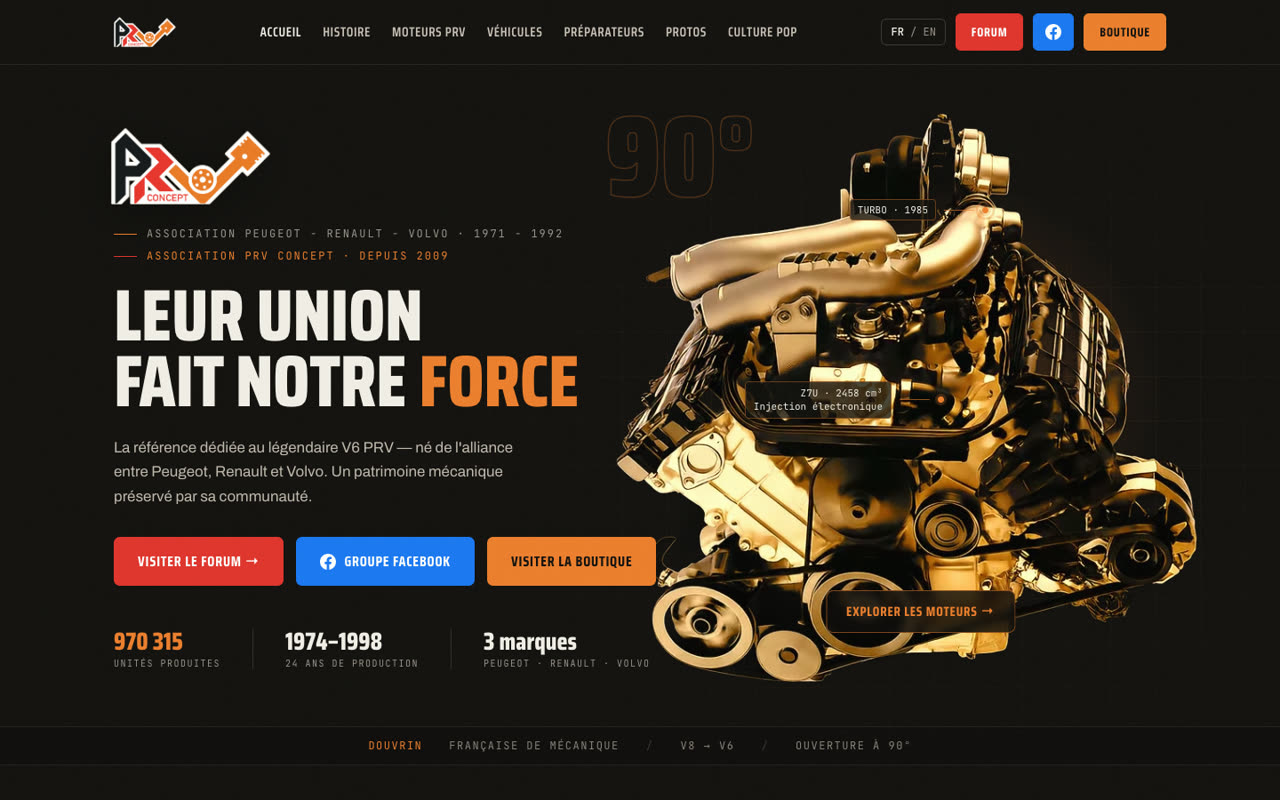
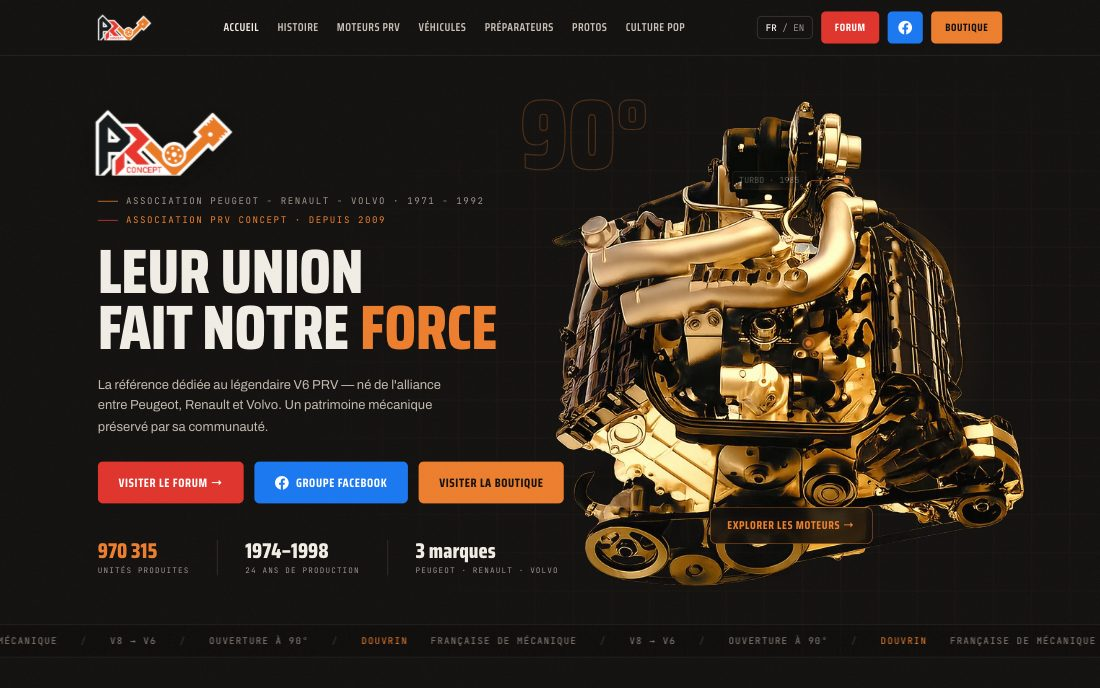
feat(realisations): capture automatisee des vignettes depuis les sites live
Nouveau script scripts/capture-realisation.mjs (npm run
capture:realisations) : rend le site client dans Chrome headless
(layout desktop 1440px), re-echantillonne via deviceScaleFactor
fractionnaire (pas de dependance sharp) et ecrit un JPEG a la taille
d'affichage des cartes (1100px, ~110 Ko).

La vignette PRV Concept est rafraichie avec l'etat actuel du site
(114 Ko vs 162 Ko). L'iframe live a ete ecartee : X-Frame-Options DENY
cote PRV, et charger un site entier dans la carte contredirait la
philosophie perf — les visiteurs ne recoivent qu'une image statique.

diff --git a/README.md b/README.md
@@ -43,7 +43,7 @@ Page unique (FR `index.html` / EN `index-en.html`) avec ancres :
 | CTA banner | — | Bandeau « Disponible maintenant » avec spotlight souris suivant |
 | Footer | — | Navigation + expertise + contact + réseaux sociaux |
 
-Pages annexes : `mentions-legales.html` / `legal-notice.html` (EN), `confidentialite.html` / `privacy.html` (EN), le **questionnaire de faisabilité** `faisabilite.html` / `feasibility.html` (EN, depuis la section Contact) et les **Réalisations** `realisations.html` / `portfolio.html` (EN, portfolio des sites clients — 1ʳᵉ réalisation : PRV Concept).
+Pages annexes : `mentions-legales.html` / `legal-notice.html` (EN), `confidentialite.html` / `privacy.html` (EN), le **questionnaire de faisabilité** `faisabilite.html` / `feasibility.html` (EN, depuis la section Contact) et les **Réalisations** `realisations.html` / `portfolio.html` (EN, portfolio des sites clients — 1ʳᵉ réalisation : PRV Concept). Les vignettes des réalisations sont **capturées automatiquement** depuis les sites live (`npm run capture:realisations` → JPEG à la taille d'affichage, ~110 Ko) — à relancer avant un déploiement pour les rafraîchir ; les visiteurs ne reçoivent qu'une image statique (zéro iframe, zéro coût runtime).
 
 ## Bilingue (FR / EN)
 
@@ -154,6 +154,7 @@ nsy-website/
 │   └── footer.fr.html / footer.en.html  #    Pied de page
 ├── scripts/                             # Outillage build (3D + synchro partials)
 │   ├── sync-partials.mjs                # ⭐ Injecte nav/footer dans les 10 pages (npm run partials)
+│   ├── capture-realisation.mjs          # Vignette Réalisations auto (npm run capture:realisations)
 │   ├── build-wireframe.sh               # Orchestrateur Blender → GL_LINES
 │   ├── process-renault.py               # Blender headless : décimation, matériau, export
 │   ├── tris-to-lines.mjs                # Triangles → GL_LINES